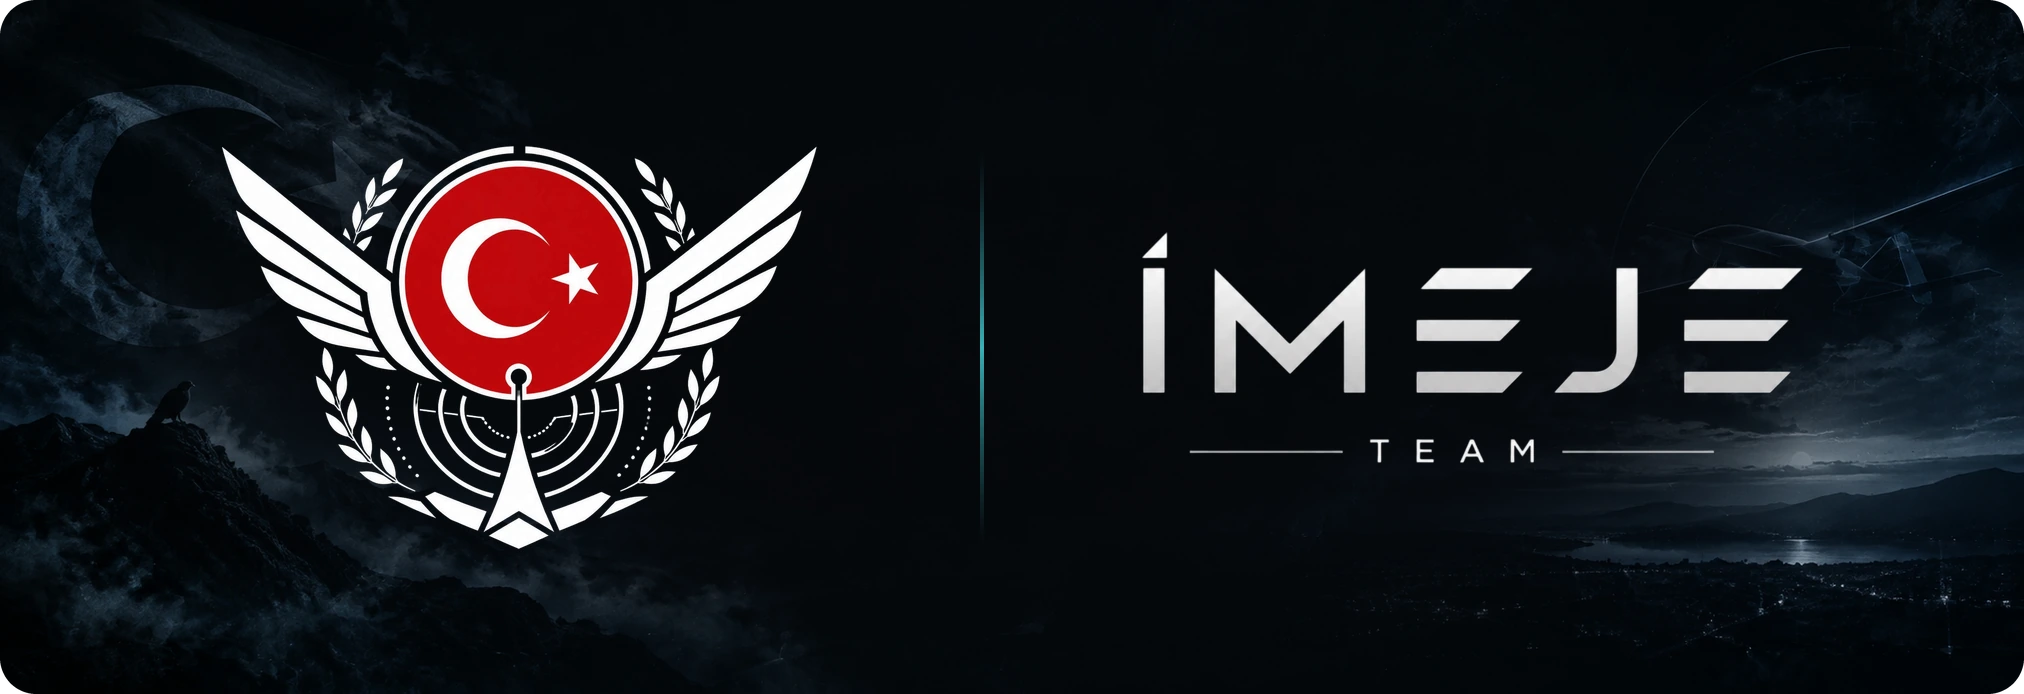
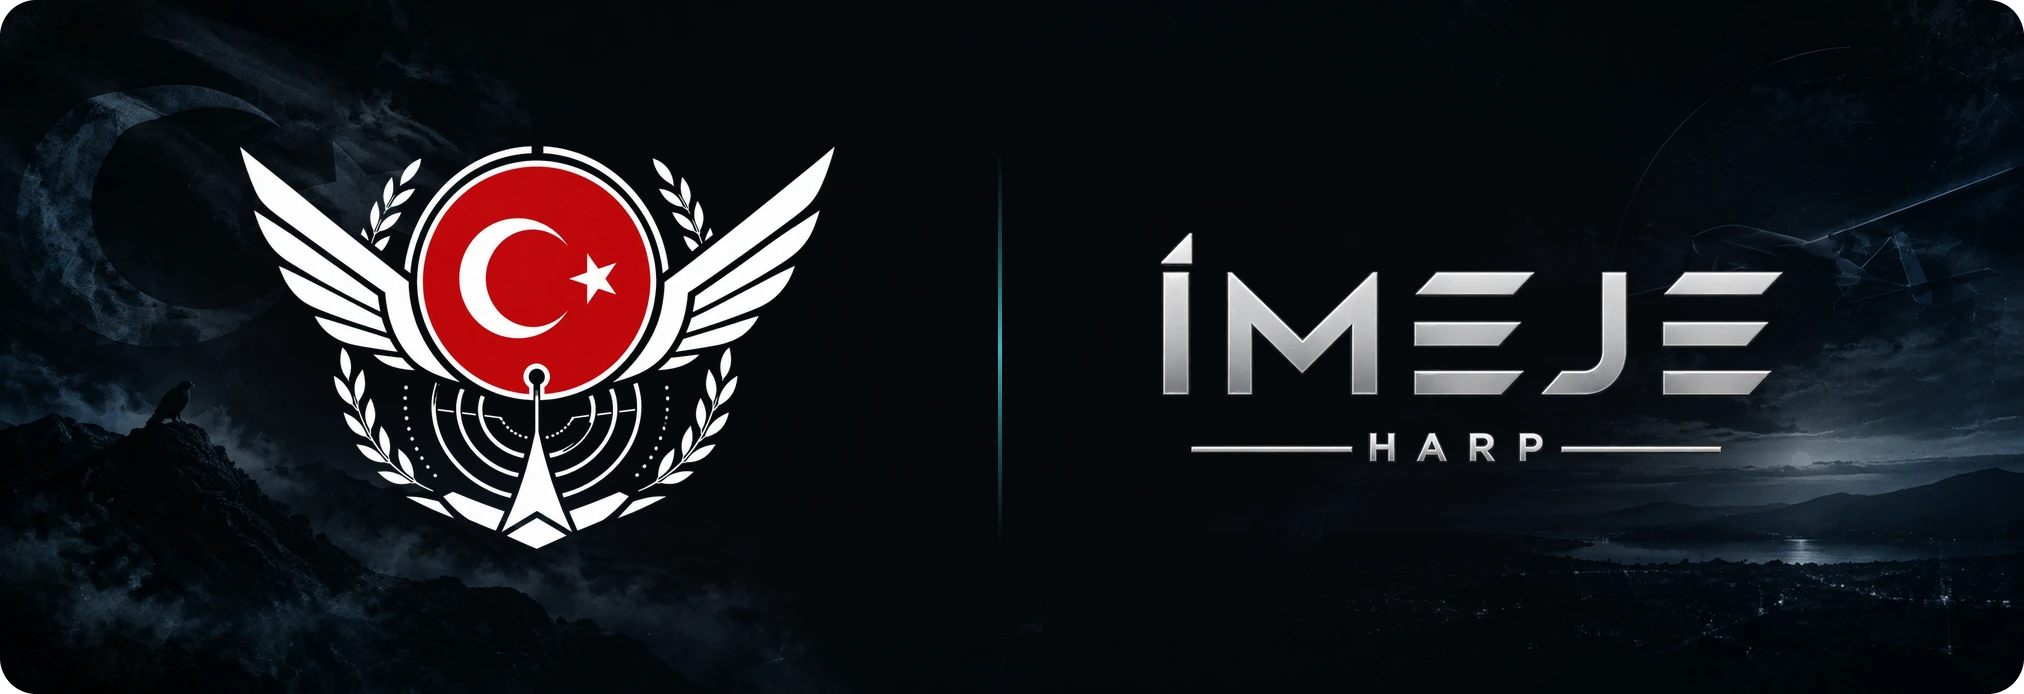
Header

diff --git a/README.md b/README.md
@@ -1,4 +1,4 @@
-<img src="https://raw.githubusercontent.com/EmrhnHARPUT/EmrhnHARPUT/main/assets/banner.webp?v=5" width="100%" alt=""/>
+<img src="https://raw.githubusercontent.com/EmrhnHARPUT/EmrhnHARPUT/main/assets/banner.webp?v=6" width="100%" alt=""/>
 
 <img src="https://raw.githubusercontent.com/EmrhnHARPUT/EmrhnHARPUT/main/assets/typing_vol2.svg?v=7" alt="Emirhan HARPUT"/>
 
